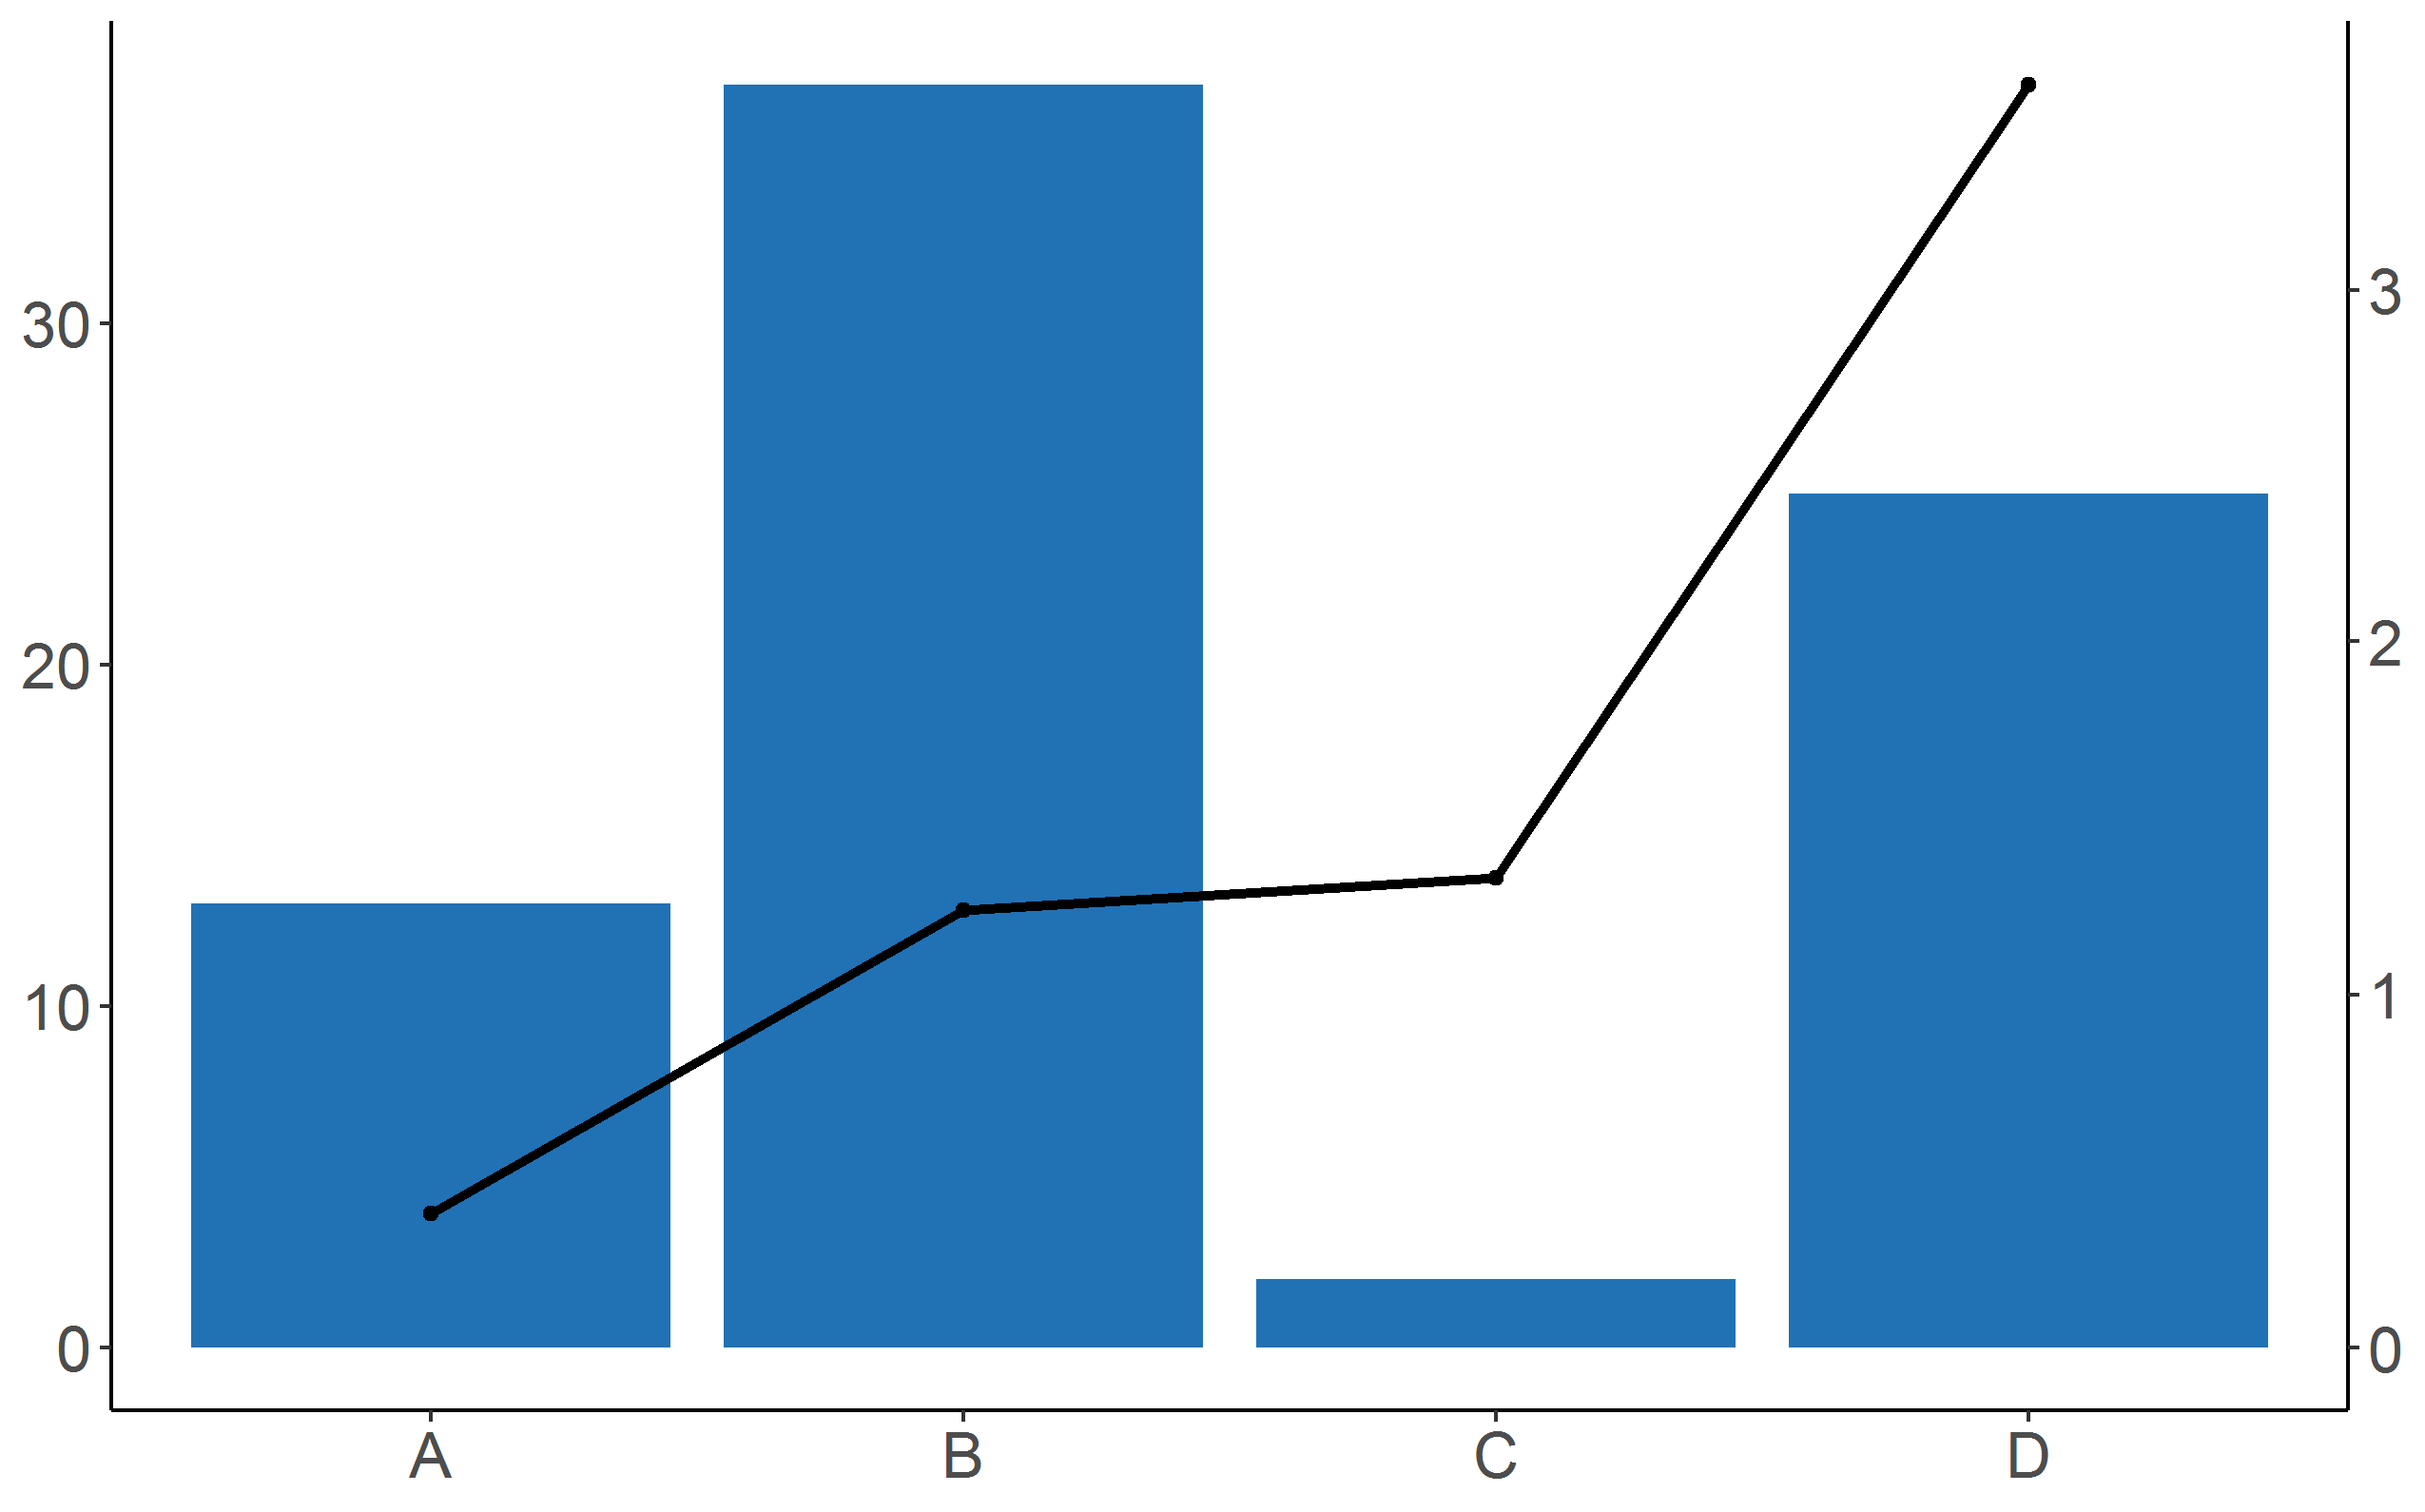
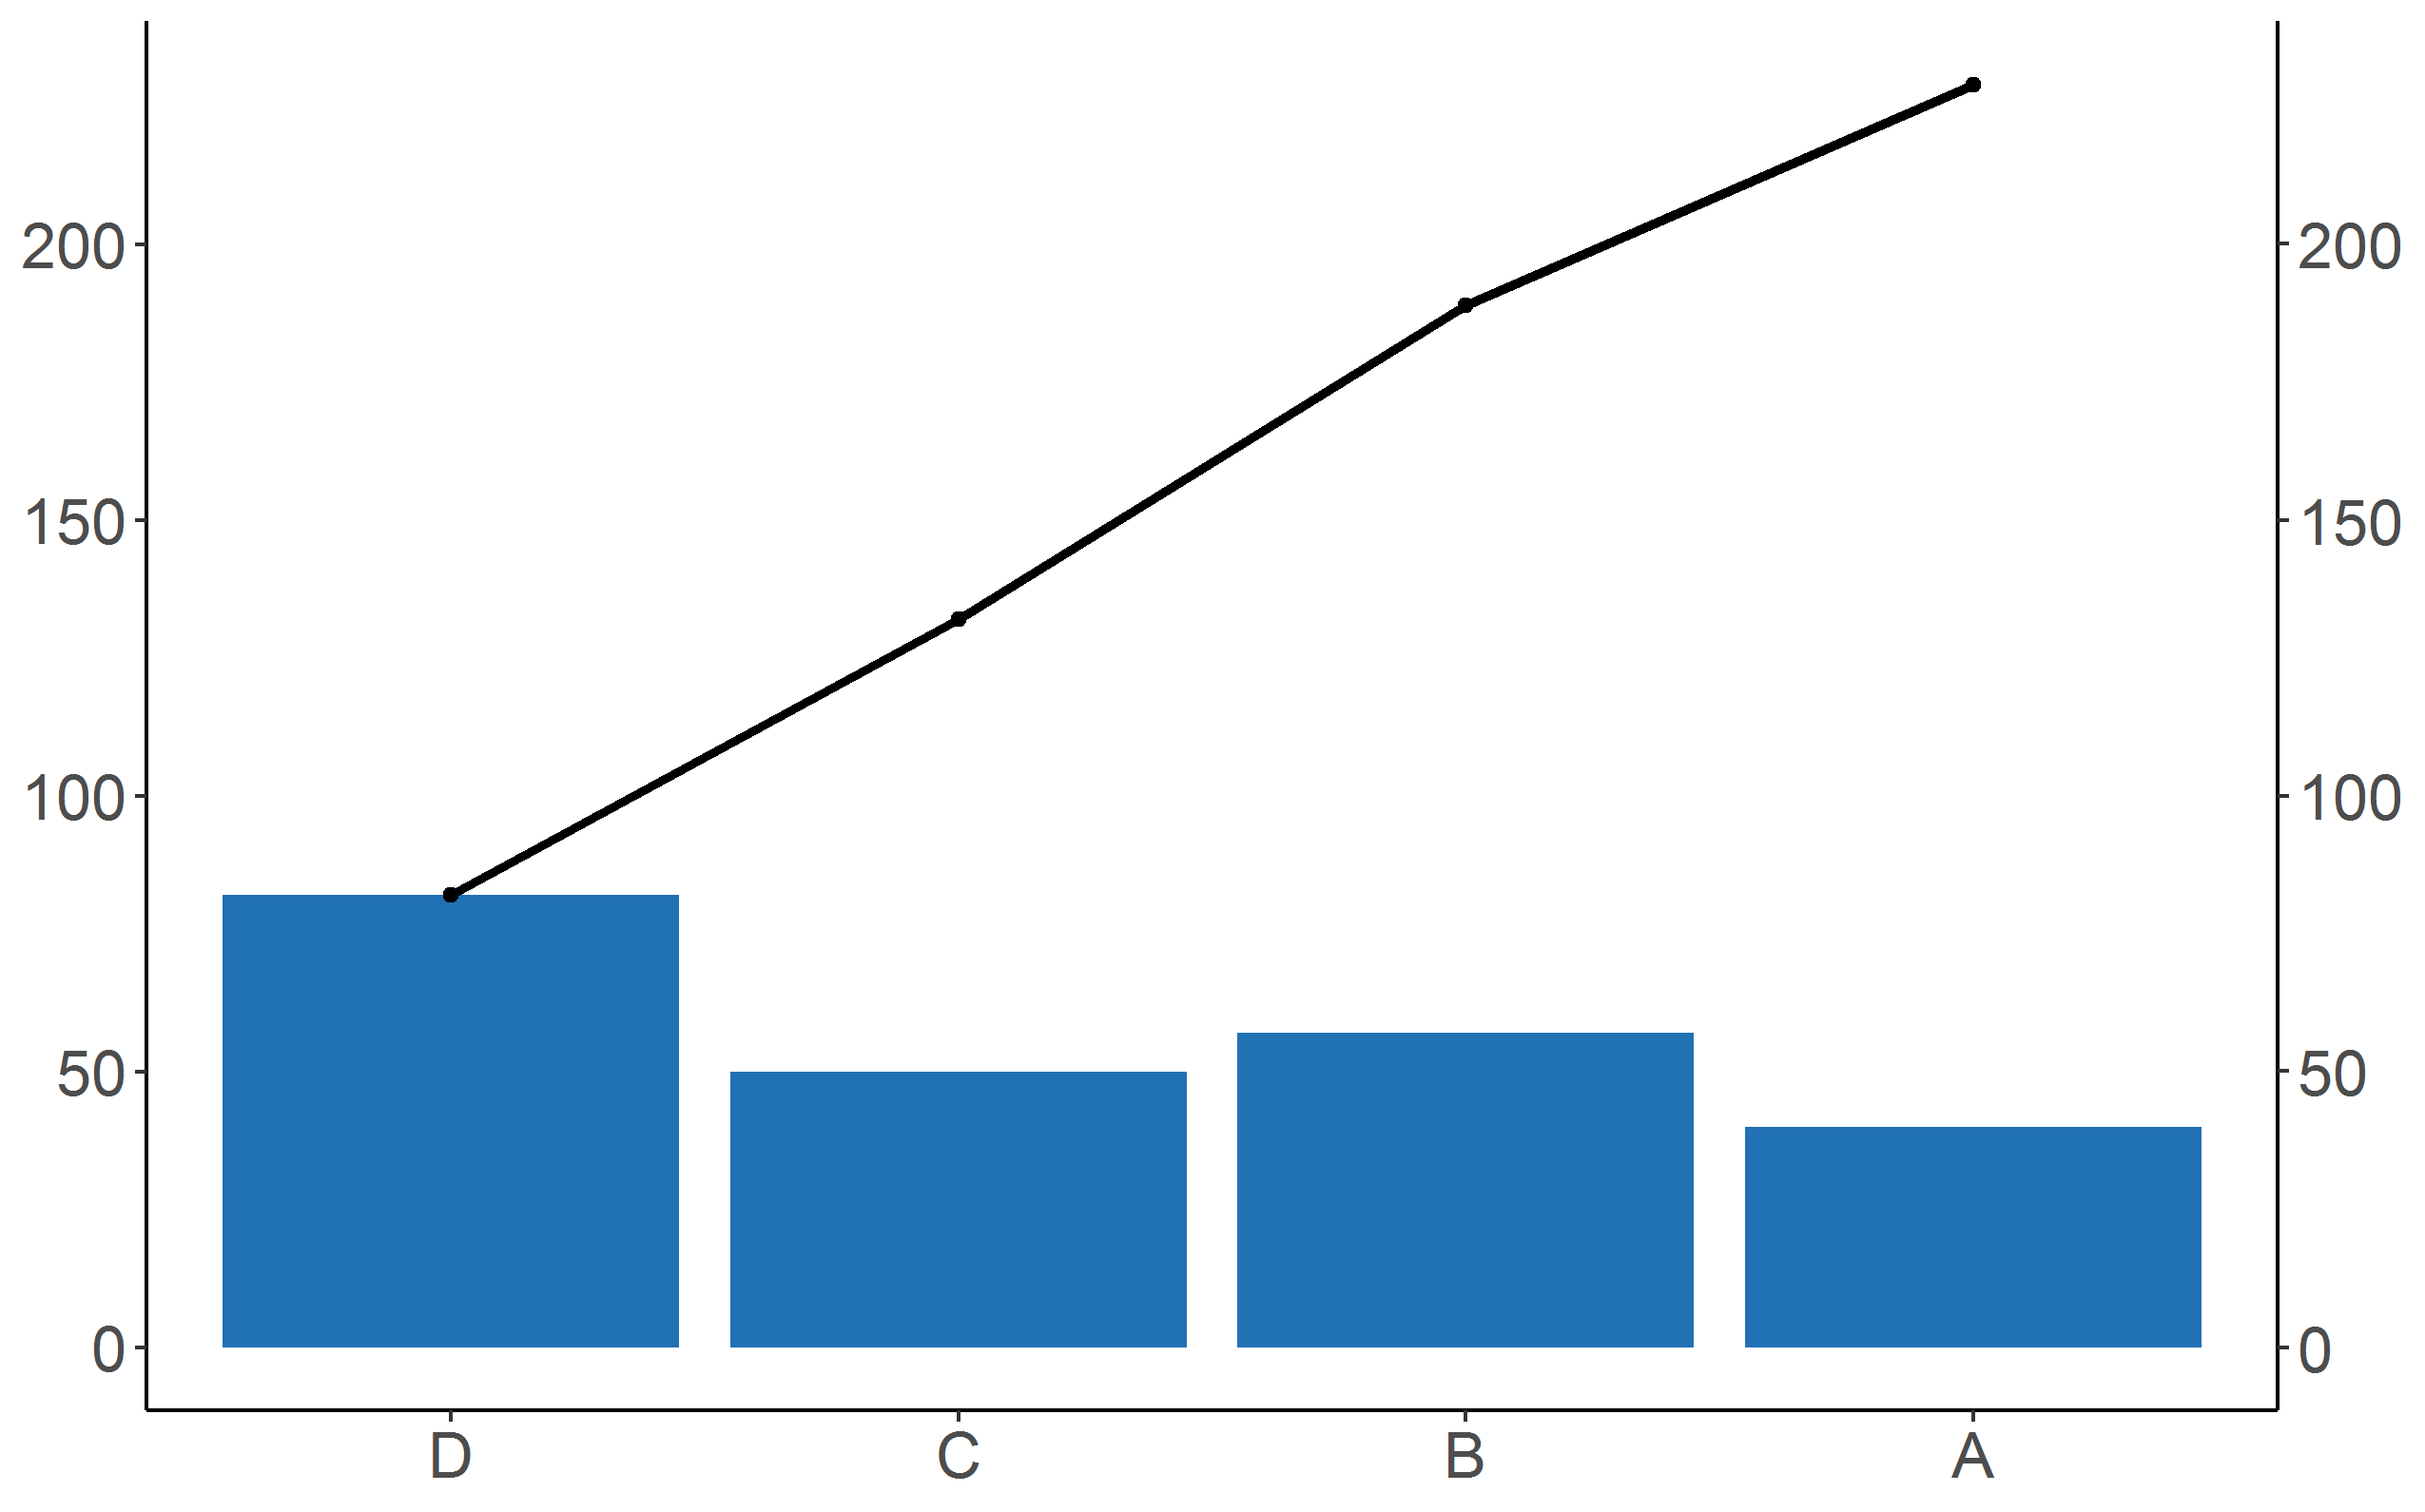
add .md files, change pareto chart code

diff --git a/candlestick/candlestick.md b/candlestick/candlestick.md
@@ -1,0 +1,36 @@
+# Candlestick Chart
+
+```r
+# Candlestick chart
+
+# Library
+library(ggplot2)
+library(quantmod) 
+library(plotly)
+
+# Data from Apple Stock data
+getSymbols("AAPL",src='yahoo')
+df <- data.frame(Date=index(AAPL),coredata(AAPL))
+df <- tail(df, 30)
+
+# Colors
+i <- list(line = list(color = '#2171b5'))
+d <- list(line = list(color = '#000000'))
+
+# Candlesitck chart
+df %>% plot_ly(x = ~Date, type="candlestick",
+               open = ~AAPL.Open, close = ~AAPL.Close,
+               high = ~AAPL.High, low = ~AAPL.Low,
+               increasing = i, decreasing = d)
+
+# Data from Amazon Stock data
+tesla<-getSymbols("TSLA", 
+                  from = "2021-10-01", 
+                  to = "2021-11-01",
+                  periodicity = "daily",
+                  auto.assign=FALSE)
+
+# Candlesitck chart
+chartSeries(tesla, name="Tesla Chart", theme="white")
+``` 
+![candlestick](candlestick.png)

diff --git a/circular-barplot/circularbarplot.md b/circular-barplot/circularbarplot.md
@@ -1,0 +1,35 @@
+# Circular Barplot
+
+```r
+# Circular Barplot
+
+# Library
+library(tidyverse)
+
+# Set seed
+set.seed(1235)
+
+# Create dataset
+data <- data.frame(
+  id=seq(1,20),
+  individual= c("A", "B", "C", "D", "E", "F", "G", "H", "I", "J",
+                "K", "M", "N", "O", "P", "Q", "R", "S", "T", "U"),
+  value=sample(seq(10,150), 20, replace=T)
+)
+
+head(data)
+
+# Circular Barplot
+ggplot(data, aes(x=as.factor(id), y=value)) +
+  geom_bar(stat="identity", fill="#2171b5") +
+  # Limits: the negative value controls the size of the inner circle,
+  # the positive one is useful to add size over each bar
+  ylim(-50,170) +
+  theme_minimal() +
+  theme(axis.text = element_blank(),
+        axis.title = element_blank(),
+        plot.margin = unit(rep(0,4), "cm")) +
+  # Coordinate polar instead of cartesian
+  coord_polar(start = 0)
+``` 
+![circularbarplot](circularbarplot.png)

diff --git a/bubbleplot/bubbleplot.md b/bubbleplot/bubbleplot.md
@@ -1,0 +1,26 @@
+# Bubble Plot
+
+```r
+# Bubble plot
+
+# Library
+library(ggplot2)
+library(dplyr)
+library(gapminder)
+
+# Gapminder dataset
+data <- gapminder %>% filter(year=="2007") %>% dplyr::select(-year)
+
+# Bubble plot
+data %>%
+  arrange(desc(pop)) %>%
+  mutate(country = factor(country, country)) %>%
+  ggplot(aes(x=gdpPercap, y=lifeExp, size=pop, color=continent)) +
+  geom_point(alpha=0.7) + guides(colour = guide_legend(override.aes = list(size=5)), size = FALSE) +
+  scale_size(range = c(1, 50)) +
+  scale_colour_manual(values = c("#2171b5", "#9ecae1", "#08306b", "#6baed6", "#4292c6", "#c6dbef")) +
+  theme_classic() +
+  theme(text = element_text(size=20),
+        axis.title = element_blank())
+``` 
+![bubbleplot](bubbleplot.png)

diff --git a/corrplot/corrplot.md b/corrplot/corrplot.md
@@ -1,0 +1,26 @@
+# Corrplot
+
+```r
+# Corrplot
+
+# Libraries
+library(ggplot2)
+library(corrplot)
+
+# Load movies dataset from GitHub
+movies <- read.csv("https://raw.githubusercontent.com/fivethirtyeight/data/master/fandango/fandango_score_comparison.csv", header=TRUE)
+df <- movies[1:10,c("FILM","RottenTomatoes","RottenTomatoes_User", "Metacritic", "Metacritic_User","IMDB", "Fandango_Stars")]
+rownames(df) <- df$FILM
+df <- df[,!colnames(df)%in%c("FILM")] 
+
+
+# Correlation matrix
+M = cor(df)
+
+# Corrplot
+corrplot(M, type = 'upper', method = 'shade', tl.col = 'black',
+         addCoef.col = 'white', cl.pos = 'n',
+         order = 'hclust', addrect = 2,
+         diag = FALSE)
+``` 
+![corrplot](corrplot.png)

diff --git a/jitterplot/jitterplot.md b/jitterplot/jitterplot.md
@@ -1,0 +1,29 @@
+# Jitter Plot
+
+```r
+# Jitter plot
+
+# Libraries
+library(palmerpenguins)
+library(ggpubr)
+library(ggplot2)
+
+# Seed
+set.seed(2021)
+
+## Read dataset Palmer Penguins
+data = penguins
+data <- na.omit(data)
+
+## Jitter plot
+ggplot(data, aes(species, bill_length_mm, color = "#2171b5")) +
+  geom_jitter(position = position_jitter(seed = 2021, width = 0.3), size = 3, alpha = 0.5) + 
+  scale_color_manual(values=c("#2171b5")) +
+  scale_y_continuous(limits = c(30, 60)) +
+  theme_classic() +
+  theme(text = element_text(size=20),
+        legend.position="none",
+        axis.text.x = element_blank(),
+        axis.title = element_blank())
+``` 
+![jitterplot](jitterplot.png)

diff --git a/pairplot/pairplot.md b/pairplot/pairplot.md
@@ -1,0 +1,26 @@
+# Pairplot
+
+```r
+# Pairplot
+
+# Libraries
+library(ggplot2)
+library(GGally)
+library(palmerpenguins)
+
+# Read dataset Palmer Penguins
+data = penguins
+data <- na.omit(data)
+df <- data[,c("species","bill_length_mm","bill_depth_mm", "flipper_length_mm")]
+
+# Pairplot
+ggpairs(df, columns = 2:4,
+        aes(color = species, alpha = 0.5),
+        lower = list(continuous = "smooth")) +
+  scale_colour_manual(values = c("#2171b5", "#9ecae1", "#08306b")) +
+  scale_fill_manual(values = c("#2171b5", "#9ecae1", "#08306b")) +
+  theme_bw() +
+  theme(text = element_text(size=16),
+        axis.title = element_blank())
+``` 
+![pairplot](pairplot.png)

diff --git a/lollipop/lollipop.md b/lollipop/lollipop.md
@@ -1,0 +1,31 @@
+# Lollipop Plot
+
+```r
+# Lollipop Chart
+
+# Library
+library(ggplot2)
+
+# Set seed
+set.seed(2045)
+
+# Create data
+data <- data.frame(
+  x=LETTERS[1:10],
+  y=abs(rnorm(10))
+)
+
+# Lollipop chart
+ggplot(data, aes(x=x, y=y)) +
+  geom_segment( aes(x=x, xend=x, y=0, yend=y), color="black") +
+  geom_point(color="#2171b5", size=6) +
+  geom_hline(yintercept=0, size=1) +
+  theme_bw() +
+  theme(panel.grid.major.x = element_blank(),
+        panel.border = element_blank(),
+        axis.ticks.x = element_blank(),
+        text = element_text(size=20)) +
+  xlab("") +
+  ylab("")
+``` 
+![lollipop](lollipop.png)

diff --git a/paretochart/paretochart.md b/paretochart/paretochart.md
@@ -1,3 +1,6 @@
+# Pareto Chart
+
+```r
 # Pareto chart
 
 # Library
@@ -21,18 +24,5 @@ ggplot(data) +
   theme(text = element_text(size=20),
         legend.position="none",
         axis.title = element_blank())
-
-
-## 
-
-# Library
-library(qcc)
-
-# Dataset
-data1 <- data.frame(var=c('A', 'B', 'C', 'D'),
-                 count=c(40, 57, 50, 82))
-
-#Pareto Chart
-pareto.chart(data1$count, main = '',
-             ylab = "Frequency", ylab2 = "Cumulative Percentage",
-             cumperc = seq(0, 100, by = 25), plot = TRUE)
+``` 
+![paretochart](paretochart.png)

diff --git a/boxplot/boxplot.md b/boxplot/boxplot.md
@@ -1,0 +1,27 @@
+# Boxplot
+
+```r
+# Boxplot
+
+# Libraries
+library(palmerpenguins)
+library(ggpubr)
+library(ggplot2)
+
+# Seed
+set.seed(4021)
+
+## Read dataset Palmer Penguins
+data = penguins
+data <- na.omit(data)
+
+#Boxplot
+ggboxplot(data, x = "species", y = "bill_length_mm", color = "#2171b5", 
+          lwd=1.5, shape = "species") +
+  theme_classic() +
+  theme(text = element_text(size=20),
+        legend.position="none",
+        axis.text.x = element_blank(),
+        axis.title = element_blank())
+``` 
+![barplot](boxplot.png)

diff --git a/densityplot/densityplot.md b/densityplot/densityplot.md
@@ -1,0 +1,23 @@
+# Density Plot
+
+```r
+# Density plot
+
+# Libraries
+library(ggplot2)
+library(dplyr)
+
+# Load dataset prices from GitHub
+data <- read.table("https://raw.githubusercontent.com/holtzy/data_to_viz/master/Example_dataset/1_OneNum.csv", header=TRUE)
+
+# Density plot
+data %>%
+  filter(price<300) %>%
+  ggplot(aes(x=price)) +
+  geom_density(fill="#2171b5") +
+  theme_classic() +
+  theme(text = element_text(size=20),
+        legend.position="none",
+        axis.title = element_blank())
+``` 
+![densityplot](densityplot.png)

diff --git a/barplot/barplot.md b/barplot/barplot.md
@@ -1,0 +1,21 @@
+# Barplot
+
+```r
+# Barplot
+
+# Library
+library(ggplot2)
+
+# Create data
+data <- data.frame(
+  name=c("A","B","C","D","E") ,  
+  value=c(10,22,5,18,45)
+)
+
+# Barplot
+ggplot(data, aes(x=name, y=value)) + 
+  geom_bar(stat = "identity", fill="#2171b5") +  
+  theme_classic() + labs(x = "", y = "") +
+  theme(text = element_text(size=20)) 
+``` 
+![barplot](barplot.png)

diff --git a/contourplot/contourplot.md b/contourplot/contourplot.md
@@ -1,0 +1,23 @@
+# Contour Plot
+
+```r
+# Contour plot
+
+# Colors
+cols <- hcl.colors(22, "Blues")
+
+# Contour
+filled.contour(volcano,
+        col = cols)
+
+
+# Library
+library(plotly)
+
+# Contour plot
+fig <- plot_ly(z = ~volcano, type = "contour", 
+               contours = list(showlabels = TRUE),
+               colorscale="Cividis")
+fig
+``` 
+![contourplot](contourplot.png)
